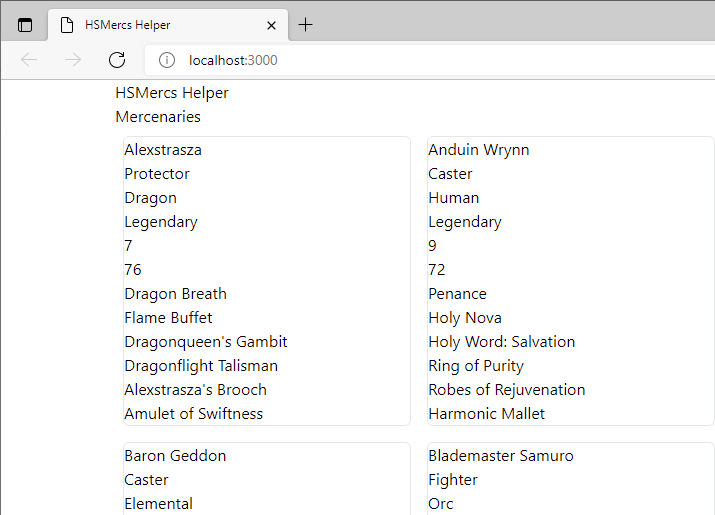
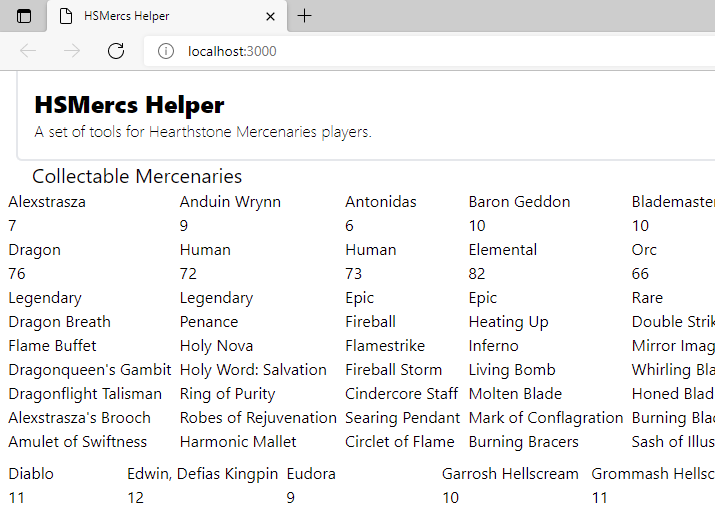
Completed "Adding Some Style" post.

diff --git a/posts/2022/2022-02-17-adding-some-style.md b/posts/2022/2022-02-17-adding-some-style.md
@@ -118,75 +118,282 @@ Well, fear not; this is intentional. The directive `@tailwind base` contains res
 
 ## Style Some More Components
 
-Most of the styling is going to be inside the Mercenary Card or one of its children. We can start by throwing around a couple classes and seeing what happens. How about this?
+Most of the styling is going to be inside the Mercenary Card or one of its children. We can start by throwing around a couple classes and seeing what happens. Now is a good time to experiment and see what you like. This first pass doesn't involve adding any color or images, it is strictly to improve readability of the basic content.
 
 #### src/components/MercenaryCard.vue
 ```diff
 <template>
-+ <div class="grid grid-cols-3 w-96 rounded-md border-2 gap-y-1 pb-1">
-+   <div class="row-span-2">
-+     <h2 class="font-bold"><slot /></h2>
-      <Rarity :rarity="rarity" />
-      <Tribe v-if="tribe" :tribe="tribe" />
-      <Role :role="role" />
-      <Attack :role="role" :attack="attack" />
-      <Health :role="role" :health="health" />
+  <div
++   class="grid grid-rows-3 w-96 rounded-md border-2 gap-y-1 pb-1"
+  >
+    <div>
+      <div
++       class="flex justify-between px-2 py-1 text-white bg-gray-700"
+      >
++       <h2 class="font-bold text-xl whitespace-nowrap">
+          <slot />
+        </h2>
+      </div>
++     <div class="grid grid-cols-5 justify-around place-items-center px-2">
+        <Attack :role="role" :attack="attack" />
+        <Tribe :tribe="tribe" />
+        <Health :role="role" :health="health" />
++       <Rarity class="col-span-2" :rarity="rarity" />
+      </div>
     </div>
-+   <div class="grid grid-cols-3">
-      <Ability
++   <div class="grid grid-cols-3 gap-x-1">
+      <AbilityStamp
         v-for="(ability, abilityName) in abilities"
         :key="abilityName"
         :ability="ability"
+        class="rounded"
         >{{ abilityName }}
-      </Ability>
+      </AbilityStamp>
     </div>
-+   <div class="grid grid-cols-3">
-      <Item v-for="(item, itemName) in equipment" :key="itemName" :item="item"
++   <div class="grid grid-cols-3 gap-x-1">
+      <ItemStamp
+        v-for="(item, itemName) in equipment"
+        :key="itemName"
+        :item="item"
         >{{ itemName }}
-      </Item>
+      </ItemStamp>
     </div>
   </div>
 </template>
 ```
 
-![HS Mercs - 3 column card looks terrible](/image/hsmercs-mcard-3col.png)
+**This right here** is why I think CSS is so frickin' cool. We made a small adjustment to the CSS and BOOM, it looks so incredibly different. I get excited when I start seeing things really begin to take shape.
 
-Well that looks absolutely terrible, but if you squint, you can see all of the elements in their place.
+I hope you're getting excited, too.
 
-Let's have a second go at it. Instead of doing half the card with the Mercenary stats and the other half split between the abilities and items, let's do them as three rows inside the card.
+![HS Mercs - adding style to the MercenaryCard](/images/hsmercs-mercs-level1styled.png)
 
-#### src/components/MercenaryCard.vue
+Let's do a some touch-up here and there by going into some of the components and applying a little style.
+
+#### src/components/AbilityStamp.vue
 ```diff
 <template>
-- <div class="grid grid-cols-2">
-+ <div class="grid grid-row-3">
--   <div class="row-span-2">
-+   <div>
-      <h2 class="font-bold"><slot /></h2>
-      <Role :role="role" />
-      <Tribe v-if="tribe" :tribe="tribe" />
-      <Rarity :rarity="rarity" />
-      <Attack :role="role" :attack="attack" />
-      <Health :role="role" :health="health" />
-    </div>
-    <div class="grid grid-cols-3">
-      <Ability
-        v-for="(ability, abilityName) in abilities"
-        :key="abilityName"
-        :ability="ability"
-        >{{ abilityName }}
-      </Ability>
-    </div>
-    <div class="grid grid-cols-3">
-      <Item v-for="(item, itemName) in equipment" :key="itemName" :item="item"
-        >{{ itemName }}
-      </Item>
-    </div>
++ <div class="border rounded text-sm sm:text-base text-center">
+    <slot />
   </div>
 </template>
 ```
 
-**This right here** is why I think CSS is so frickin' cool. We made a small adjustment to the CSS and BOOM, it's an entirely new layout.
+#### src/components/Attack.vue
+```diff
+<template>
++ <div class="text-center font-bold w-10 h-10 text-xl p-2">
+    {{ attack }}
+  </div>
+</template>
+```
 
-![HS Mercs - 3 row card looks useable](/image/hsmercs-mcard-3row.png)
+#### src/components/Health.vue
+```diff
+<template>
++ <div class="text-center font-bold w-10 h-10 text-xl p-2">
+    {{ health }}
+  </div>
+</template>
+```
 
+#### src/components/ItemStamp.vue
+```diff
+<template>
++ <div class="border rounded text-sm sm:text-base text-center">
+    <slot />
+  </div>
+</template>
+```
+
+#### src/components/Tribe.vue
+```diff
+<template>
++ <div class="whitespace-nowrap text-center">
++   <span class="align-middle">{{ tribe }}</span>
+  </div>
+</template>
+```
+
+Those little touches don't add much, but they set us to for the next stage in styling, which is to start having fun with dynamic colors and images based on properties of the mercenary.
+
+![HSMercs - level 2 shaping](/images/hsmercs-mercs-level2styled.png)
+
+## Time For Some Images
+
+All this grey and white and boxes is getting boring. The excitement is starting to wear off. Time to add some pictures into this. Head over to the repo for this project and download the images from the ["/assets/" folder](https://github.com/drovani/hsmercs-helper/tree/main/assets). It's safe to grab all of the images in that folder, but if you want to be selective, these are the ones we are going to work with first.
+
+#### Assets Folder
+```
+├── assets
+│   ├── alliance-watermark.png
+│   ├── caster-attack.png
+│   ├── caster-health.png
+│   ├── epic.png
+│   ├── fighter-attack.png
+│   ├── fighter-health.png
+│   ├── horder-watermark.png
+│   ├── legendary.png
+│   ├── neutral-attack.png
+│   ├── neutral-health.png
+│   ├── protector-attack.png
+│   ├── protector-health.png
+│   ├── rare.png
+```
+
+Be sure to place the `assets` folder at the root.
+
+#### src/components/Attack.vue
+```diff
+<template>
+  <div
++   class="bg-center bg-contain bg-no-repeat text-center font-bold text-white w-10 h-10 text-xl p-2"
++   :style="{
++     'background-image': `url('/assets/${role.toLowerCase()}-attack.png')`,
++   }"
+  >
+    {{ attack }}
+  </div>
+</template>
+```
+
+#### src/components/Health.vue
+```diff
+<template>
+  <div
++   class="bg-center bg-contain bg-no-repeat text-center font-bold text-white w-10 h-10 text-xl p-2"
++   :style="{
++     'background-image': `url('/assets/${role.toLowerCase()}-health.png')`,
++   }"
+  >
+    {{ health }}
+  </div>
+</template>
+```
+
+If you've left the `vite` server running, your place should be autorefreshing with the new content when you save the Vue files. If not, go ahead and start it up, now. You can see how the affect of the `role` property plays out by dynamically setting the URL of the background image.
+
+#### src/components/Rarity.vue
+```diff
+<template>
+  <div>
++   <img
++     class="max-h-6 inline"
++     :src="`./assets/${rarity.toLowerCase()}.png`"
++     :alt="rarity"
++   />
+    {{ rarity }}
+  </div>
+</template>
+```
+
+Tailwind's Preflight sets the `img` to `display:block`, so we need to set it back to `inline` for this instance. The `max-h-6` is there to keep the image contained. We could also set an explicit height or width, but I prefer telling it the maximum allowed size and if the container shrinks, then the image will scale, too.
+
+![HSMercs - level 2 images](/images/hsmercs-mercs-level2images.png)
+
+### Tailwind Custom Colors
+
+The next style we are going to implement is to color the border and the top bibbon of each card based on the class. Looking through Tailwind's [default color palette](https://tailwindcss.com/docs/customizing-colors#default-color-palette), the colors red-800, green-800, and blue-800 seem to nicely fit with the Mercenaries color palette. However, instead of having to remember which color we picked for each class, and which shade is the right one, Tailwind allows us to create custom named colors.
+
+#### tailwind.config.js
+```diff
++ const colors = require("tailwindcss/colors");
+  
+  module.exports = {
+    content: ["./index.html", "./src/**/*.{vue,ts}"],
+    theme: {
+      extend: {
++       colors: {
++         protector: colors.red[800],
++         fighter: colors.green[800],
++         caster: colors.blue[800],
++       },
+      },
+    },
+    plugins: [],
+  };
+```
+
+The Tailwind compiler (and the VSCode Intellisense) now know that "protector", "fighter", and "caster" are valid colors.
+
+#### src/components/MercenaryCard.vue
+```diff
+<template>
+  <div
+    class="grid grid-rows-3 w-96 rounded-md border-2 gap-y-1 pb-1"
++   :class="{
++     'border-protector': role == 'Protector',
++     'border-fighter': role == 'Fighter',
++     'border-caster': role == 'Caster',
++   }"
+  >
+    <div>
+      <div
+        class="flex justify-between px-2 py-1 text-white bg-gray-700"
++       :class="{
++         'bg-protector': role == 'Protector',
++         'bg-fighter': role == 'Fighter',
++         'bg-caster': role == 'Caster',
++       }"
+      >
+        <h2 class="font-bold text-xl whitespace-nowrap">
+          <slot />
+        </h2>
+      </div>
+...
+    </div>
+...
+  </div>
+</template>
+```
+
+How cool is that?! Using the `role` prop, Vue assigns the right border and background class to use. Tailwind knows to generate the appropriate CSS class to match the colors we want.
+
+### Tribe & Faction
+
+There is a concept in Mercenaries PVE where some tribes are a part of the "Alliance" faction, others are in the "Horde", and the rest are neutral or without a faction. Instead of doing a long set of logic in the `<template>` block, we'll create a `computed` property that will evaluate the faction based on the mercenary's tribe.
+
+#### src/components/Tribe.vue
+```diff
+  <template>
+    <div
++     class="bg-center bg-no-repeat bg-contain h-10 whitespace-nowrap min-w-[6rem] text-center"
++     :style="{
++       'background-image': backgroundImage,
++     }"
+    >
+      <span class="align-middle">{{ tribe }}</span>
+    </div>
+  </template>
+  <script setup lang="ts">
++ import { computed } from "vue";
+
+  const props = defineProps({
+    tribe: {
+      type: String,
+    },
+  });
+
++ const horde = ["Blood Elf", "Goblin", "Half-Orc", "Orc", "Tauren", "Troll", "Undead"];
++ const alliance = ["Draenei", "Dwarf", "Gnome", "High Elf", "Human", "Night Elf"];
++ 
++ const faction = computed(() => {
++   return horde.find(t => t === props.tribe)
++     ? "Horde"
++     : alliance.find(t => t === props.tribe)
++     ? "Alliance"
++     : "Neutral";
++ });
+
++ const backgroundImage = computed((): string => {
++   if (faction.value === "Horde" || faction.value === "Alliance") {
++     return `url('/assets/${faction.value.toLowerCase()}-watermark.png')`;
++   }
++   return "unset";
++ });
+  </script>
+```
+
+The two arrays tell us which tribes are in which factions and the `faction` computed property does a quick look-up. We then utilize that value to drive the `background-image` style for the `div`.
+
+![HSMercs - Round 1 Styling Complete](/images/hsmercs-mercs-level1dynamic.png)
